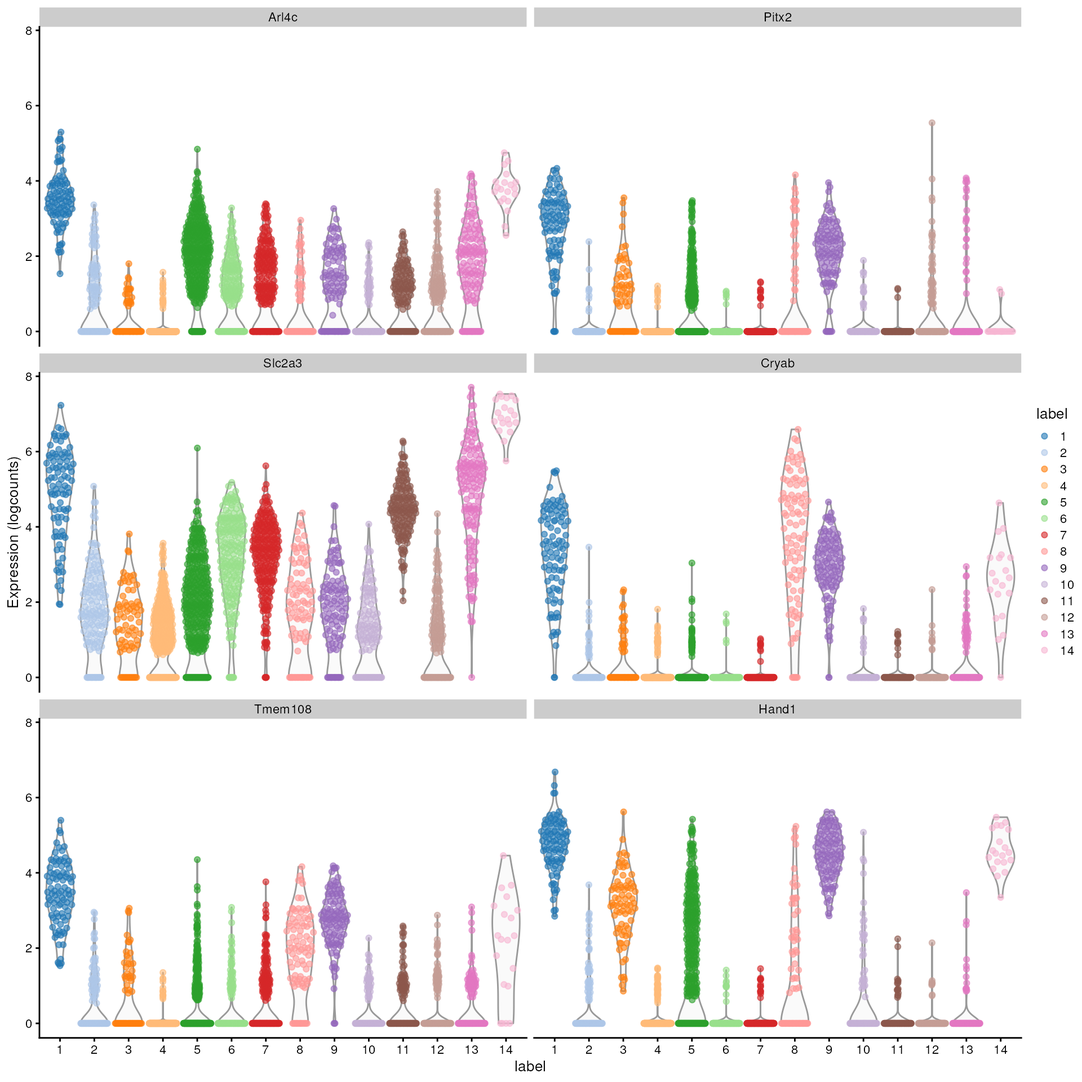
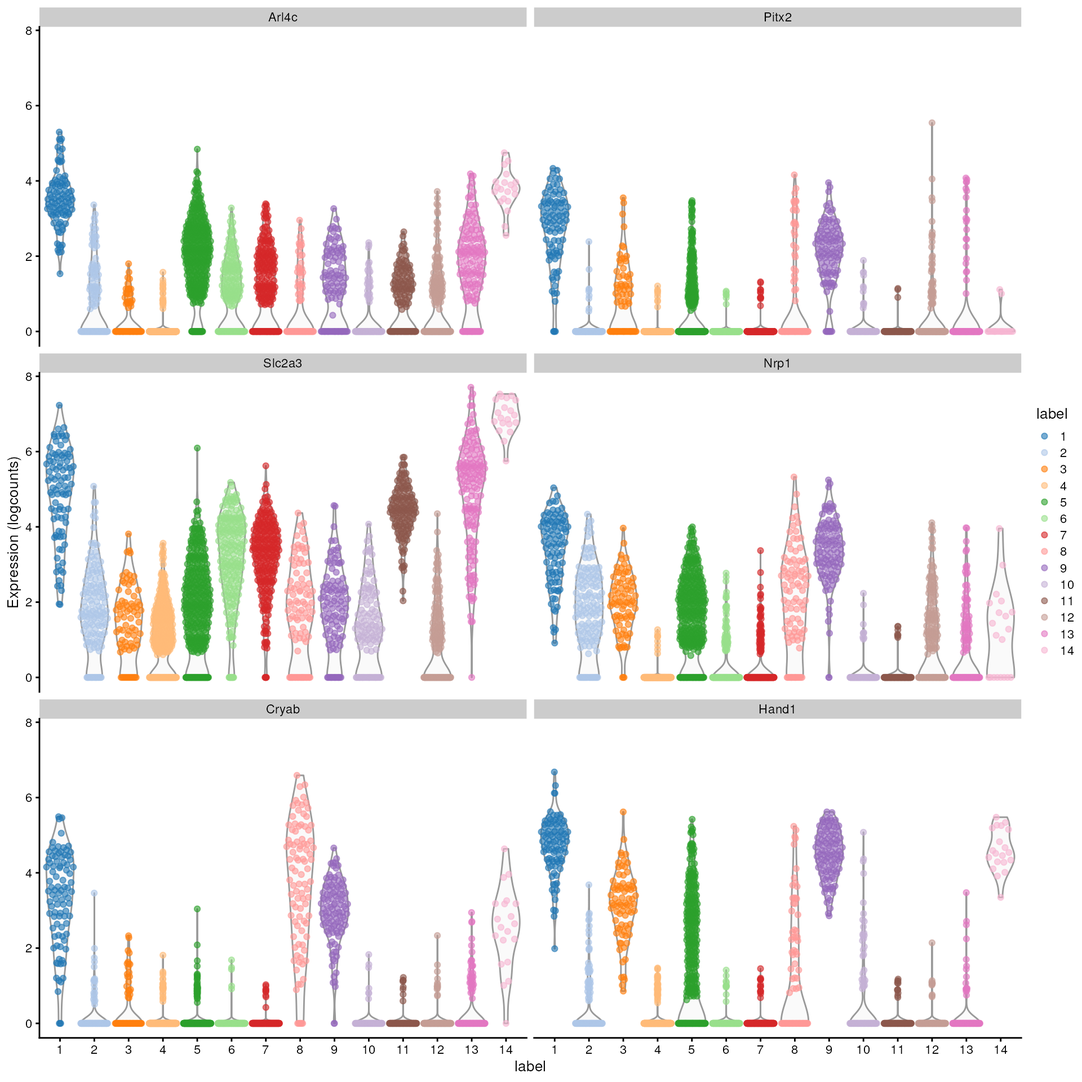
Deploying to gh-pages from @ Bioconductor/ISMB.OSCA@7d8c669f03f19db3a0edfb3fc0d00af073430867 🚀

diff --git a/articles/multi_sample.html b/articles/multi_sample.html
@@ -479,11 +479,179 @@ clusters.</p>
 <h2 id="differential-abundance">Differential Abundance<a class="anchor" aria-label="anchor" href="#differential-abundance"></a>
 </h2>
 <p>Section 6 of OSCA multisample.</p>
+<div class="sourceCode" id="cb51"><pre class="downlit sourceCode r">
+<code class="sourceCode R"><span><span class="va">abundances</span> <span class="op">&lt;-</span> <span class="fu"><a href="https://rdrr.io/r/base/table.html" class="external-link">table</a></span><span class="op">(</span><span class="va">merged</span><span class="op">$</span><span class="va">celltype.mapped</span>, <span class="va">merged</span><span class="op">$</span><span class="va">sample</span><span class="op">)</span> </span>
+<span><span class="va">abundances</span> <span class="op">&lt;-</span> <span class="fu"><a href="https://rdrr.io/r/base/as.data.frame.html" class="external-link">as.data.frame</a></span><span class="op">(</span><span class="fu"><a href="https://rdrr.io/r/base/class.html" class="external-link">unclass</a></span><span class="op">(</span><span class="va">abundances</span><span class="op">)</span><span class="op">)</span></span>
+<span><span class="fu"><a href="https://rdrr.io/r/utils/head.html" class="external-link">head</a></span><span class="op">(</span><span class="va">abundances</span><span class="op">)</span></span></code></pre></div>
+<pre><code><span><span class="co">##                      5  6   7   8   9  10</span></span>
+<span><span class="co">## Allantois           97 15 139 127 318 259</span></span>
+<span><span class="co">## Blood progenitors 1  6  3  16   6   8  17</span></span>
+<span><span class="co">## Blood progenitors 2 31  8  28  21  43 114</span></span>
+<span><span class="co">## Cardiomyocytes      85 21  79  31 174 211</span></span>
+<span><span class="co">## Caudal epiblast      2  2   0   0  22  45</span></span>
+<span><span class="co">## Caudal Mesoderm     10 10   9   3  10  29</span></span></code></pre>
+<div class="sourceCode" id="cb53"><pre class="downlit sourceCode r">
+<code class="sourceCode R"><span><span class="co">## add mosaic plot?</span></span>
+<span><span class="co"># df &lt;- as.data.frame(abundances)</span></span>
+<span><span class="co"># Qui ho sommato le colonne REP1SHAM con REP2SHAM e le colonne REP1CAC con REP2CAC</span></span>
+<span><span class="co"># df &lt;- cbind(rowSums(df[,c(1,3)]), rowSums(df[,c(2,4)]))</span></span>
+<span><span class="co"># colnames(df) &lt;- c("CAC", "SHAM")</span></span>
+<span><span class="co"># rownames(df) &lt;- c("Endothelial", "FAPs", "Immune Cells", "MuSC", "Myonuclei", "Nervous System", "Pericyte", "Smooth Muscular","Tenocyte" )</span></span>
+<span><span class="co"># Barplot</span></span>
+<span><span class="co"># Create a df for barplot</span></span>
+<span><span class="co"># cell.type &lt;- rep(rownames(df), 6)</span></span>
+<span><span class="co"># condition &lt;- c(rep(paste0("S", 6:10), each=dim(df)[1]))</span></span>
+<span><span class="co"># value &lt;- c(df[,1], df[,2],df[,3], df[,4], df[,5], df[,6])</span></span>
+<span><span class="co"># </span></span>
+<span><span class="co"># dfpl &lt;- data.frame(cell.type,condition,value)</span></span>
+<span><span class="co"># library(RColorBrewer)</span></span>
+<span><span class="co"># newpal &lt;- c(brewer.pal(12, "Set3"), brewer.pal(8, "Accent"), brewer.pal(8, "Dark2"), brewer.pal(8, "Set2"))</span></span>
+<span><span class="co"># #Stacked</span></span>
+<span><span class="co"># ggplot(dfpl, aes(y=value, x=condition, fill=cell.type,color=cell.type)) + </span></span>
+<span><span class="co">#     geom_bar(position="fill", stat="identity")+ scale_y_continuous(labels = scales::percent) +</span></span>
+<span><span class="co">#   theme_classic()  +theme(legend.position="none")+ scale_color_manual(values=newpal)+</span></span>
+<span><span class="co">#   scale_fill_manual(values=newpal) #+ labs(y="Nuclei proportion(%)", x="", fill=NULL, color=NULL)   </span></span>
+<span><span class="co">#   # +theme_classic()  #+theme(legend.position="none")</span></span></code></pre></div>
+<div class="sourceCode" id="cb54"><pre class="downlit sourceCode r">
+<code class="sourceCode R"><span><span class="kw"><a href="https://rdrr.io/r/base/library.html" class="external-link">library</a></span><span class="op">(</span><span class="va"><a href="https://bioinf.wehi.edu.au/edgeR/" class="external-link">edgeR</a></span><span class="op">)</span></span>
+<span><span class="co"># Attaching some column metadata.</span></span>
+<span><span class="va">extra.info</span> <span class="op">&lt;-</span> <span class="fu"><a href="https://rdrr.io/pkg/SummarizedExperiment/man/SummarizedExperiment-class.html" class="external-link">colData</a></span><span class="op">(</span><span class="va">merged</span><span class="op">)</span><span class="op">[</span><span class="fu"><a href="https://rdrr.io/r/base/match.html" class="external-link">match</a></span><span class="op">(</span><span class="fu"><a href="https://rdrr.io/r/base/colnames.html" class="external-link">colnames</a></span><span class="op">(</span><span class="va">abundances</span><span class="op">)</span>, <span class="va">merged</span><span class="op">$</span><span class="va">sample</span><span class="op">)</span>,<span class="op">]</span></span>
+<span><span class="va">y.ab</span> <span class="op">&lt;-</span> <span class="fu"><a href="https://rdrr.io/pkg/edgeR/man/DGEList.html" class="external-link">DGEList</a></span><span class="op">(</span><span class="va">abundances</span>, samples<span class="op">=</span><span class="va">extra.info</span><span class="op">)</span></span>
+<span><span class="va">y.ab</span></span></code></pre></div>
+<pre><code><span><span class="co">## An object of class "DGEList"</span></span>
+<span><span class="co">## $counts</span></span>
+<span><span class="co">##                      5  6   7   8   9  10</span></span>
+<span><span class="co">## Allantois           97 15 139 127 318 259</span></span>
+<span><span class="co">## Blood progenitors 1  6  3  16   6   8  17</span></span>
+<span><span class="co">## Blood progenitors 2 31  8  28  21  43 114</span></span>
+<span><span class="co">## Cardiomyocytes      85 21  79  31 174 211</span></span>
+<span><span class="co">## Caudal epiblast      2  2   0   0  22  45</span></span>
+<span><span class="co">## 29 more rows ...</span></span>
+<span><span class="co">## </span></span>
+<span><span class="co">## $samples</span></span>
+<span><span class="co">##    group lib.size norm.factors batch       cell          barcode sample stage</span></span>
+<span><span class="co">## 5      1     2298            1     5  cell_9769 AAACCTGAGACTGTAA      5  E8.5</span></span>
+<span><span class="co">## 6      1     1026            1     6 cell_12180 AAACCTGCAGATGGCA      6  E8.5</span></span>
+<span><span class="co">## 7      1     2740            1     7 cell_13227 AAACCTGAGACAAGCC      7  E8.5</span></span>
+<span><span class="co">## 8      1     2904            1     8 cell_16234 AAACCTGCAAACCCAT      8  E8.5</span></span>
+<span><span class="co">## 9      1     4057            1     9 cell_19332 AAACCTGCAACGATCT      9  E8.5</span></span>
+<span><span class="co">## 10     1     6401            1    10 cell_23875 AAACCTGAGGCATGTG     10  E8.5</span></span>
+<span><span class="co">##    tomato pool stage.mapped              celltype.mapped closest.cell</span></span>
+<span><span class="co">## 5    TRUE    3        E8.25                   Mesenchyme   cell_24159</span></span>
+<span><span class="co">## 6   FALSE    3        E8.25             Somitic mesoderm   cell_63247</span></span>
+<span><span class="co">## 7    TRUE    4         E8.5             Somitic mesoderm   cell_25454</span></span>
+<span><span class="co">## 8   FALSE    4        E8.25                 ExE mesoderm  cell_139075</span></span>
+<span><span class="co">## 9    TRUE    5         E8.0                 ExE mesoderm  cell_116116</span></span>
+<span><span class="co">## 10  FALSE    5         E8.5 Forebrain/Midbrain/Hindbrain   cell_39343</span></span>
+<span><span class="co">##    doub.density sizeFactor label</span></span>
+<span><span class="co">## 5    0.02985045  1.6348759     1</span></span>
+<span><span class="co">## 6    0.29191572  2.5980769    12</span></span>
+<span><span class="co">## 7    0.60173979  1.5939009    11</span></span>
+<span><span class="co">## 8    0.00473259  0.8707367    16</span></span>
+<span><span class="co">## 9    0.07941464  0.8932525     3</span></span>
+<span><span class="co">## 10   0.04074704  0.3947355     7</span></span></code></pre>
+<p>Filtering low abundance labels</p>
+<div class="sourceCode" id="cb56"><pre class="downlit sourceCode r">
+<code class="sourceCode R"><span><span class="va">keep</span> <span class="op">&lt;-</span> <span class="fu"><a href="https://rdrr.io/pkg/edgeR/man/filterByExpr.html" class="external-link">filterByExpr</a></span><span class="op">(</span><span class="va">y.ab</span>, group<span class="op">=</span><span class="va">y.ab</span><span class="op">$</span><span class="va">samples</span><span class="op">$</span><span class="va">tomato</span><span class="op">)</span></span>
+<span><span class="va">y.ab</span> <span class="op">&lt;-</span> <span class="va">y.ab</span><span class="op">[</span><span class="va">keep</span>,<span class="op">]</span></span>
+<span><span class="fu"><a href="https://rdrr.io/r/base/summary.html" class="external-link">summary</a></span><span class="op">(</span><span class="va">keep</span><span class="op">)</span></span></code></pre></div>
+<pre><code><span><span class="co">##    Mode   FALSE    TRUE </span></span>
+<span><span class="co">## logical      10      24</span></span></code></pre>
+<div class="sourceCode" id="cb58"><pre class="downlit sourceCode r">
+<code class="sourceCode R"><span><span class="va">design</span> <span class="op">&lt;-</span> <span class="fu"><a href="https://rdrr.io/r/stats/model.matrix.html" class="external-link">model.matrix</a></span><span class="op">(</span><span class="op">~</span><span class="fu"><a href="https://rdrr.io/r/base/factor.html" class="external-link">factor</a></span><span class="op">(</span><span class="va">pool</span><span class="op">)</span> <span class="op">+</span> <span class="fu"><a href="https://rdrr.io/r/base/factor.html" class="external-link">factor</a></span><span class="op">(</span><span class="va">tomato</span><span class="op">)</span>, <span class="va">y.ab</span><span class="op">$</span><span class="va">samples</span><span class="op">)</span></span></code></pre></div>
+<div class="sourceCode" id="cb59"><pre class="downlit sourceCode r">
+<code class="sourceCode R"><span><span class="va">y.ab</span> <span class="op">&lt;-</span> <span class="fu"><a href="https://rdrr.io/pkg/edgeR/man/estimateDisp.html" class="external-link">estimateDisp</a></span><span class="op">(</span><span class="va">y.ab</span>, <span class="va">design</span>, trend<span class="op">=</span><span class="st">"none"</span><span class="op">)</span></span>
+<span><span class="fu"><a href="https://rdrr.io/r/base/summary.html" class="external-link">summary</a></span><span class="op">(</span><span class="va">y.ab</span><span class="op">$</span><span class="va">common.dispersion</span><span class="op">)</span></span></code></pre></div>
+<pre><code><span><span class="co">##    Min. 1st Qu.  Median    Mean 3rd Qu.    Max. </span></span>
+<span><span class="co">##  0.0614  0.0614  0.0614  0.0614  0.0614  0.0614</span></span></code></pre>
+<div class="sourceCode" id="cb61"><pre class="downlit sourceCode r">
+<code class="sourceCode R"><span><span class="fu"><a href="https://rdrr.io/pkg/edgeR/man/plotBCV.html" class="external-link">plotBCV</a></span><span class="op">(</span><span class="va">y.ab</span>, cex<span class="op">=</span><span class="fl">1</span><span class="op">)</span></span></code></pre></div>
+<p><img src="multi_sample_files/figure-html/unnamed-chunk-21-1.png" width="700"></p>
+<div class="sourceCode" id="cb62"><pre class="downlit sourceCode r">
+<code class="sourceCode R"><span><span class="va">fit.ab</span> <span class="op">&lt;-</span> <span class="fu"><a href="https://rdrr.io/pkg/edgeR/man/glmQLFTest.html" class="external-link">glmQLFit</a></span><span class="op">(</span><span class="va">y.ab</span>, <span class="va">design</span>, robust<span class="op">=</span><span class="cn">TRUE</span>, abundance.trend<span class="op">=</span><span class="cn">FALSE</span><span class="op">)</span></span>
+<span><span class="fu"><a href="https://rdrr.io/r/base/summary.html" class="external-link">summary</a></span><span class="op">(</span><span class="va">fit.ab</span><span class="op">$</span><span class="va">var.prior</span><span class="op">)</span></span></code></pre></div>
+<pre><code><span><span class="co">##    Min. 1st Qu.  Median    Mean 3rd Qu.    Max. </span></span>
+<span><span class="co">##   1.254   1.254   1.254   1.254   1.254   1.254</span></span></code></pre>
+<div class="sourceCode" id="cb64"><pre class="downlit sourceCode r">
+<code class="sourceCode R"><span><span class="fu"><a href="https://rdrr.io/r/base/summary.html" class="external-link">summary</a></span><span class="op">(</span><span class="va">fit.ab</span><span class="op">$</span><span class="va">df.prior</span><span class="op">)</span></span></code></pre></div>
+<pre><code><span><span class="co">##    Min. 1st Qu.  Median    Mean 3rd Qu.    Max. </span></span>
+<span><span class="co">##     Inf     Inf     Inf     Inf     Inf     Inf</span></span></code></pre>
+<div class="sourceCode" id="cb66"><pre class="downlit sourceCode r">
+<code class="sourceCode R"><span><span class="fu"><a href="https://rdrr.io/pkg/edgeR/man/plotQLDisp.html" class="external-link">plotQLDisp</a></span><span class="op">(</span><span class="va">fit.ab</span>, cex<span class="op">=</span><span class="fl">1</span><span class="op">)</span></span></code></pre></div>
+<p><img src="multi_sample_files/figure-html/unnamed-chunk-22-1.png" width="700"></p>
+<div class="sourceCode" id="cb67"><pre class="downlit sourceCode r">
+<code class="sourceCode R"><span><span class="va">res</span> <span class="op">&lt;-</span> <span class="fu"><a href="https://rdrr.io/pkg/edgeR/man/glmQLFTest.html" class="external-link">glmQLFTest</a></span><span class="op">(</span><span class="va">fit.ab</span>, coef<span class="op">=</span><span class="fu"><a href="https://rdrr.io/r/base/nrow.html" class="external-link">ncol</a></span><span class="op">(</span><span class="va">design</span><span class="op">)</span><span class="op">)</span></span>
+<span><span class="fu"><a href="https://rdrr.io/r/base/summary.html" class="external-link">summary</a></span><span class="op">(</span><span class="fu"><a href="https://rdrr.io/pkg/limma/man/decideTests.html" class="external-link">decideTests</a></span><span class="op">(</span><span class="va">res</span><span class="op">)</span><span class="op">)</span></span></code></pre></div>
+<pre><code><span><span class="co">##        factor(tomato)TRUE</span></span>
+<span><span class="co">## Down                    1</span></span>
+<span><span class="co">## NotSig                 22</span></span>
+<span><span class="co">## Up                      1</span></span></code></pre>
+<div class="sourceCode" id="cb69"><pre class="downlit sourceCode r">
+<code class="sourceCode R"><span><span class="fu"><a href="https://rdrr.io/pkg/edgeR/man/topTags.html" class="external-link">topTags</a></span><span class="op">(</span><span class="va">res</span><span class="op">)</span></span></code></pre></div>
+<pre><code><span><span class="co">## Coefficient:  factor(tomato)TRUE </span></span>
+<span><span class="co">##                                     logFC   logCPM         F       PValue</span></span>
+<span><span class="co">## ExE ectoderm                   -6.5663339 13.02497 66.266874 1.352022e-10</span></span>
+<span><span class="co">## Mesenchyme                      1.1651500 16.29382 11.290523 1.534506e-03</span></span>
+<span><span class="co">## Allantois                       0.8345294 15.50702  5.312163 2.554581e-02</span></span>
+<span><span class="co">## Cardiomyocytes                  0.8484008 14.86430  5.203963 2.701306e-02</span></span>
+<span><span class="co">## Neural crest                   -0.7706378 14.76462  4.106177 4.830292e-02</span></span>
+<span><span class="co">## Endothelium                     0.7518608 14.28905  3.911511 5.371320e-02</span></span>
+<span><span class="co">## Erythroid3                     -0.6430834 17.28041  3.603666 6.367366e-02</span></span>
+<span><span class="co">## Haematoendothelial progenitors  0.6581135 14.72323  3.123946 8.350641e-02</span></span>
+<span><span class="co">## ExE mesoderm                    0.3805309 15.67835  1.180627 2.826550e-01</span></span>
+<span><span class="co">## Pharyngeal mesoderm             0.3793160 15.72073  1.169279 2.849523e-01</span></span>
+<span><span class="co">##                                         FDR</span></span>
+<span><span class="co">## ExE ectoderm                   3.244852e-09</span></span>
+<span><span class="co">## Mesenchyme                     1.841407e-02</span></span>
+<span><span class="co">## Allantois                      1.620784e-01</span></span>
+<span><span class="co">## Cardiomyocytes                 1.620784e-01</span></span>
+<span><span class="co">## Neural crest                   2.148528e-01</span></span>
+<span><span class="co">## Endothelium                    2.148528e-01</span></span>
+<span><span class="co">## Erythroid3                     2.183097e-01</span></span>
+<span><span class="co">## Haematoendothelial progenitors 2.505192e-01</span></span>
+<span><span class="co">## ExE mesoderm                   6.257608e-01</span></span>
+<span><span class="co">## Pharyngeal mesoderm            6.257608e-01</span></span></code></pre>
+<div class="section level3">
+<h3 id="assuming-most-labels-do-not-change">Assuming most labels do not change<a class="anchor" aria-label="anchor" href="#assuming-most-labels-do-not-change"></a>
+</h3>
+<div class="sourceCode" id="cb71"><pre class="downlit sourceCode r">
+<code class="sourceCode R"><span><span class="va">y.ab2</span> <span class="op">&lt;-</span> <span class="fu"><a href="https://rdrr.io/pkg/edgeR/man/calcNormFactors.html" class="external-link">calcNormFactors</a></span><span class="op">(</span><span class="va">y.ab</span><span class="op">)</span></span>
+<span><span class="va">y.ab2</span><span class="op">$</span><span class="va">samples</span><span class="op">$</span><span class="va">norm.factors</span></span></code></pre></div>
+<pre><code><span><span class="co">## [1] 1.0055014 1.0832868 1.1658013 0.7613537 1.0615834 0.9743361</span></span></code></pre>
+<div class="sourceCode" id="cb73"><pre class="downlit sourceCode r">
+<code class="sourceCode R"><span><span class="va">y.ab2</span> <span class="op">&lt;-</span> <span class="fu"><a href="https://rdrr.io/pkg/edgeR/man/estimateDisp.html" class="external-link">estimateDisp</a></span><span class="op">(</span><span class="va">y.ab2</span>, <span class="va">design</span>, trend<span class="op">=</span><span class="st">"none"</span><span class="op">)</span></span>
+<span><span class="va">fit.ab2</span> <span class="op">&lt;-</span> <span class="fu"><a href="https://rdrr.io/pkg/edgeR/man/glmQLFTest.html" class="external-link">glmQLFit</a></span><span class="op">(</span><span class="va">y.ab2</span>, <span class="va">design</span>, robust<span class="op">=</span><span class="cn">TRUE</span>, abundance.trend<span class="op">=</span><span class="cn">FALSE</span><span class="op">)</span></span>
+<span><span class="va">res2</span> <span class="op">&lt;-</span> <span class="fu"><a href="https://rdrr.io/pkg/edgeR/man/glmQLFTest.html" class="external-link">glmQLFTest</a></span><span class="op">(</span><span class="va">fit.ab2</span>, coef<span class="op">=</span><span class="fu"><a href="https://rdrr.io/r/base/nrow.html" class="external-link">ncol</a></span><span class="op">(</span><span class="va">design</span><span class="op">)</span><span class="op">)</span></span>
+<span><span class="fu"><a href="https://rdrr.io/pkg/edgeR/man/topTags.html" class="external-link">topTags</a></span><span class="op">(</span><span class="va">res2</span>, n<span class="op">=</span><span class="fl">10</span><span class="op">)</span></span></code></pre></div>
+<pre><code><span><span class="co">## Coefficient:  factor(tomato)TRUE </span></span>
+<span><span class="co">##                                     logFC   logCPM         F       PValue</span></span>
+<span><span class="co">## ExE ectoderm                   -6.9215053 13.17310 70.364441 5.737569e-11</span></span>
+<span><span class="co">## Mesenchyme                      0.9512514 16.26914  6.786568 1.219244e-02</span></span>
+<span><span class="co">## Neural crest                   -1.0031930 14.78020  6.463970 1.428911e-02</span></span>
+<span><span class="co">## Erythroid3                     -0.8503855 17.34945  5.517254 2.299442e-02</span></span>
+<span><span class="co">## Cardiomyocytes                  0.6400437 14.83561  2.734575 1.047239e-01</span></span>
+<span><span class="co">## Allantois                       0.6054049 15.51064  2.502557 1.202293e-01</span></span>
+<span><span class="co">## Forebrain/Midbrain/Hindbrain   -0.4943126 16.54751  1.928484 1.713349e-01</span></span>
+<span><span class="co">## Endothelium                     0.5481902 14.26928  1.916766 1.726164e-01</span></span>
+<span><span class="co">## Erythroid2                     -0.4818165 16.00028  1.677363 2.014700e-01</span></span>
+<span><span class="co">## Haematoendothelial progenitors  0.4262409 14.73329  1.184785 2.818191e-01</span></span>
+<span><span class="co">##                                         FDR</span></span>
+<span><span class="co">## ExE ectoderm                   1.377017e-09</span></span>
+<span><span class="co">## Mesenchyme                     1.143129e-01</span></span>
+<span><span class="co">## Neural crest                   1.143129e-01</span></span>
+<span><span class="co">## Erythroid3                     1.379665e-01</span></span>
+<span><span class="co">## Cardiomyocytes                 4.809171e-01</span></span>
+<span><span class="co">## Allantois                      4.809171e-01</span></span>
+<span><span class="co">## Forebrain/Midbrain/Hindbrain   5.178491e-01</span></span>
+<span><span class="co">## Endothelium                    5.178491e-01</span></span>
+<span><span class="co">## Erythroid2                     5.372534e-01</span></span>
+<span><span class="co">## Haematoendothelial progenitors 6.239689e-01</span></span></code></pre>
+</div>
 </div>
 <div class="section level2">
 <h2 id="session-info">Session Info<a class="anchor" aria-label="anchor" href="#session-info"></a>
 </h2>
-<div class="sourceCode" id="cb51"><pre class="downlit sourceCode r">
+<div class="sourceCode" id="cb75"><pre class="downlit sourceCode r">
 <code class="sourceCode R"><span><span class="fu"><a href="https://rdrr.io/r/utils/sessionInfo.html" class="external-link">sessionInfo</a></span><span class="op">(</span><span class="op">)</span></span></code></pre></div>
 <pre><code><span><span class="co">## R version 4.3.0 (2023-04-21)</span></span>
 <span><span class="co">## Platform: x86_64-pc-linux-gnu (64-bit)</span></span>
@@ -534,7 +702,7 @@ clusters.</p>
 <span><span class="co">##  [21] rhdf5_2.44.0                  sass_0.4.6                   </span></span>
 <span><span class="co">##  [23] bslib_0.5.0                   desc_1.4.2                   </span></span>
 <span><span class="co">##  [25] cachem_1.0.8                  ResidualMatrix_1.10.0        </span></span>
-<span><span class="co">##  [27] igraph_1.4.3                  mime_0.12                    </span></span>
+<span><span class="co">##  [27] igraph_1.5.0                  mime_0.12                    </span></span>
 <span><span class="co">##  [29] lifecycle_1.0.3               pkgconfig_2.0.3              </span></span>
 <span><span class="co">##  [31] rsvd_1.0.5                    Matrix_1.5-4.1               </span></span>
 <span><span class="co">##  [33] R6_2.5.1                      fastmap_1.1.1                </span></span>

diff --git a/articles/cell_type_annotation.html b/articles/cell_type_annotation.html
@@ -169,7 +169,7 @@ cell in our <code>SingleCellExperiment</code> object.</p>
 <span><span class="fu"><a href="https://rdrr.io/r/base/table.html" class="external-link">table</a></span><span class="op">(</span><span class="fu"><a href="https://rdrr.io/pkg/SingleCellExperiment/man/colLabels.html" class="external-link">colLabels</a></span><span class="op">(</span><span class="va">sce</span><span class="op">)</span><span class="op">)</span></span></code></pre></div>
 <pre><code><span><span class="co">## </span></span>
 <span><span class="co">##   1   2   3   4   5   6   7   8   9  10  11  12  13  14 </span></span>
-<span><span class="co">##  91 144  75 397 399 209 246  95 108 129 154 198 146  20</span></span></code></pre>
+<span><span class="co">##  92 144  78 397 397 210 246  96 108 118 143 210 152  20</span></span></code></pre>
 <p>We assign the cluster assignments back into our
 <code>SingleCellExperiment</code> object as a <code>factor</code> in the
 column metadata. This allows us to conveniently visualize the
@@ -224,11 +224,11 @@ cluster.</p>
 <pre><code><span><span class="co">## DataFrame with 29453 rows and 17 columns</span></span>
 <span><span class="co">##                  Top     p.value         FDR summary.AUC     AUC.2     AUC.3</span></span>
 <span><span class="co">##            &lt;integer&gt;   &lt;numeric&gt;   &lt;numeric&gt;   &lt;numeric&gt; &lt;numeric&gt; &lt;numeric&gt;</span></span>
-<span><span class="co">## Arl4c              1 3.92896e-90 3.85732e-86    0.998644  0.908349  0.991502</span></span>
-<span><span class="co">## Pitx2              1 1.40465e-80 4.59680e-77    0.952612  0.942308  0.774359</span></span>
-<span><span class="co">## Slc2a3             1 7.27172e-43 1.91227e-40    0.961359  0.890797  0.937729</span></span>
-<span><span class="co">## Cryab              1 1.76158e-73 3.45892e-70    0.958563  0.942537  0.909890</span></span>
-<span><span class="co">## Tmem108            1 2.00077e-94 5.89286e-90    0.997979  0.944902  0.912674</span></span>
+<span><span class="co">## Arl4c              1 2.00247e-90 1.96596e-86    0.998549  0.906401  0.989967</span></span>
+<span><span class="co">## Pitx2              1 3.44435e-77 9.22239e-74    0.942257  0.932065  0.772854</span></span>
+<span><span class="co">## Slc2a3             1 1.26060e-42 3.37531e-40    0.958028  0.885341  0.928790</span></span>
+<span><span class="co">## Nrp1               1 1.49555e-93 4.40485e-89    0.987488  0.685160  0.658445</span></span>
+<span><span class="co">## Cryab              1 1.64329e-70 2.41999e-67    0.948144  0.932292  0.902174</span></span>
 <span><span class="co">## ...              ...         ...         ...         ...       ...       ...</span></span>
 <span><span class="co">## AC125149.2     29448           1           1           0         0         0</span></span>
 <span><span class="co">## AC125149.4     29449           1           1           0         0         0</span></span>
@@ -237,11 +237,11 @@ cluster.</p>
 <span><span class="co">## Vmn2r122       29453           1           1           0         0         0</span></span>
 <span><span class="co">##                AUC.4     AUC.5     AUC.6     AUC.7     AUC.8     AUC.9</span></span>
 <span><span class="co">##            &lt;numeric&gt; &lt;numeric&gt; &lt;numeric&gt; &lt;numeric&gt; &lt;numeric&gt; &lt;numeric&gt;</span></span>
-<span><span class="co">## Arl4c       0.998644  0.671156  0.911562  0.864514  0.942279  0.870065</span></span>
-<span><span class="co">## Pitx2       0.952612  0.811424  0.952101  0.948718  0.759630  0.421245</span></span>
-<span><span class="co">## Slc2a3      0.961359  0.879947  0.696041  0.705843  0.886293  0.894587</span></span>
-<span><span class="co">## Cryab       0.958563  0.953758  0.962721  0.963191  0.262348  0.349105</span></span>
-<span><span class="co">## Tmem108     0.997979  0.934892  0.962091  0.934691  0.665703  0.395910</span></span>
+<span><span class="co">## Arl4c       0.998549  0.663482  0.908696  0.861082  0.939085  0.866244</span></span>
+<span><span class="co">## Pitx2       0.942257  0.800159  0.941770  0.938406  0.753397  0.416667</span></span>
+<span><span class="co">## Slc2a3      0.958028  0.875205  0.689441  0.699054  0.881680  0.888688</span></span>
+<span><span class="co">## Nrp1        0.987488  0.722977  0.952433  0.955992  0.591825  0.208837</span></span>
+<span><span class="co">## Cryab       0.948144  0.944174  0.952277  0.952722  0.263247  0.345310</span></span>
 <span><span class="co">## ...              ...       ...       ...       ...       ...       ...</span></span>
 <span><span class="co">## AC125149.2         0         0         0         0         0         0</span></span>
 <span><span class="co">## AC125149.4         0         0         0         0         0         0</span></span>
@@ -250,11 +250,11 @@ cluster.</p>
 <span><span class="co">## Vmn2r122           0         0         0         0         0         0</span></span>
 <span><span class="co">##               AUC.10    AUC.11    AUC.12    AUC.13      AUC.14</span></span>
 <span><span class="co">##            &lt;numeric&gt; &lt;numeric&gt; &lt;numeric&gt; &lt;numeric&gt;   &lt;numeric&gt;</span></span>
-<span><span class="co">## Arl4c       0.979981  0.942914  0.919358  0.735059 0.095604396</span></span>
-<span><span class="co">## Pitx2       0.935344  0.952547  0.873460  0.853229 0.938461538</span></span>
-<span><span class="co">## Slc2a3      0.949485  0.386685  0.960095  0.299187 0.000549451</span></span>
-<span><span class="co">## Cryab       0.954766  0.959612  0.958819  0.917883 0.459890110</span></span>
-<span><span class="co">## Tmem108     0.976318  0.956615  0.965756  0.959506 0.567582418</span></span>
+<span><span class="co">## Arl4c       0.979366  0.944284  0.925983  0.732695 0.094565217</span></span>
+<span><span class="co">## Pitx2       0.926032  0.941928  0.870859  0.847969 0.928260870</span></span>
+<span><span class="co">## Slc2a3      0.932019  0.388188  0.960300  0.284826 0.000543478</span></span>
+<span><span class="co">## Nrp1        0.977800  0.983734  0.840631  0.882509 0.805978261</span></span>
+<span><span class="co">## Cryab       0.947218  0.949377  0.946636  0.909110 0.454891304</span></span>
 <span><span class="co">## ...              ...       ...       ...       ...         ...</span></span>
 <span><span class="co">## AC125149.2         0         0         0         0           0</span></span>
 <span><span class="co">## AC125149.4         0         0         0         0           0</span></span>

diff --git a/articles/hca.html b/articles/hca.html
@@ -217,7 +217,7 @@ datasets by tissue type.</p>
 <span>  <span class="fu">dplyr</span><span class="fu">::</span><span class="fu"><a href="https://dplyr.tidyverse.org/reference/distinct.html" class="external-link">distinct</a></span><span class="op">(</span><span class="va">tissue</span>, <span class="va">dataset_id</span><span class="op">)</span> <span class="op">|&gt;</span> </span>
 <span>  <span class="fu">dplyr</span><span class="fu">::</span><span class="fu"><a href="https://dplyr.tidyverse.org/reference/count.html" class="external-link">count</a></span><span class="op">(</span><span class="va">tissue</span><span class="op">)</span></span></code></pre></div>
 <pre><code><span><span class="co">## <span style="color: #949494;"># Source:   SQL [?? x 2]</span></span></span>
-<span><span class="co">## <span style="color: #949494;"># Database: DuckDB 0.8.0 [unknown@Linux 5.15.0-1039-azure:R 4.3.0/:memory:]</span></span></span>
+<span><span class="co">## <span style="color: #949494;"># Database: DuckDB 0.8.1 [unknown@Linux 5.15.0-1039-azure:R 4.3.0/:memory:]</span></span></span>
 <span><span class="co">##    tissue                          n</span></span>
 <span><span class="co">##    <span style="color: #949494; font-style: italic;">&lt;chr&gt;</span>                       <span style="color: #949494; font-style: italic;">&lt;dbl&gt;</span></span></span>
 <span><span class="co">## <span style="color: #BCBCBC;"> 1</span> transition zone of prostate     2</span></span>
@@ -423,7 +423,7 @@ objects, if necessary, is to use
 <span><span class="co">##  [23] htmlwidgets_1.6.2           desc_1.4.2                 </span></span>
 <span><span class="co">##  [25] ica_1.0-3                   plyr_1.8.8                 </span></span>
 <span><span class="co">##  [27] plotly_4.10.2               zoo_1.8-12                 </span></span>
-<span><span class="co">##  [29] cachem_1.0.8                igraph_1.4.3               </span></span>
+<span><span class="co">##  [29] cachem_1.0.8                igraph_1.5.0               </span></span>
 <span><span class="co">##  [31] mime_0.12                   lifecycle_1.0.3            </span></span>
 <span><span class="co">##  [33] pkgconfig_2.0.3             Matrix_1.5-4.1             </span></span>
 <span><span class="co">##  [35] R6_2.5.1                    fastmap_1.1.1              </span></span>
@@ -440,7 +440,7 @@ objects, if necessary, is to use
 <span><span class="co">##  [57] abind_1.4-5                 compiler_4.3.0             </span></span>
 <span><span class="co">##  [59] withr_2.5.0                 DBI_1.1.3                  </span></span>
 <span><span class="co">##  [61] highr_0.10                  HDF5Array_1.28.1           </span></span>
-<span><span class="co">##  [63] duckdb_0.8.0                MASS_7.3-60                </span></span>
+<span><span class="co">##  [63] duckdb_0.8.1                MASS_7.3-60                </span></span>
 <span><span class="co">##  [65] DelayedArray_0.26.3         tools_4.3.0                </span></span>
 <span><span class="co">##  [67] lmtest_0.9-40               httpuv_1.6.11              </span></span>
 <span><span class="co">##  [69] future.apply_1.11.0         goftest_1.2-3              </span></span>
